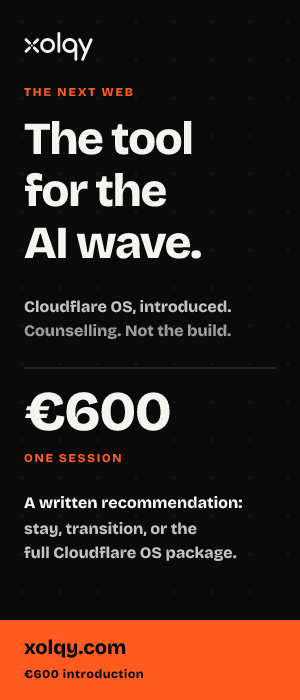
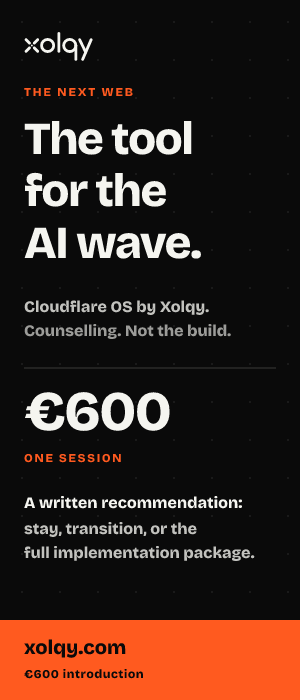
Rename the visible Cloudflare OS offer to the implementation.
Cloudflare OS stays Cloudflare’s product. Nav, shop, banner and article CTAs now say Cloudflare OS Implementation by Xolqy, with the short form only where space is tight. URLs are unchanged.

Changed region(s): [[0.18, 0.78, 0.84, 0.81], [0.45, 0.42, 0.78, 0.45]]

diff --git a/src/data/cloudflare-os.ts b/src/data/cloudflare-os.ts
@@ -1,7 +1,8 @@
 /**
- * Cloudflare OS: the umbrella offering. Facts here are restatements of the
- * process, services, stack and FAQs already published on the site. No prices,
- * customer names or measured results.
+ * Cloudflare OS Implementation by Xolqy. Cloudflare OS is Cloudflare's
+ * open-source product. Facts here are restatements of the process, services,
+ * stack and FAQs already published on the site. No prices, customer names
+ * or measured results.
  */
 import { PROCESS } from '@/data/content';
 
@@ -11,7 +12,7 @@ export const OS_PATH = '/cloudflare-os/';
 export const OS_TOPIC = 'Cloudflare OS';
 
 export const OS_DESCRIPTION =
-  'Cloudflare OS is how Xolqy runs a business on Cloudflare: compute, data, security, AI and delivery as one system, in an account you own, from audit through ongoing support.';
+  'Cloudflare OS Implementation by Xolqy deploys Cloudflare’s open-source AI workspace and designs compute, data, security, AI and delivery as one system, in an account you own. Xolqy is an independent implementation partner.';
 
 export interface OsProduct {
   name: string;
@@ -146,7 +147,7 @@ export const VERSUS = PROCESS.map((p) => {
 });
 
 export const NOT_THIS = [
-  'Not a Cloudflare product, plan or certification. Xolqy is independent and is not affiliated with, endorsed by or certified by Cloudflare, Inc.',
+  'Not a Cloudflare endorsement, plan or certification. Cloudflare OS is Cloudflare’s open-source product. Xolqy is an independent implementation partner and is not affiliated with, endorsed by or certified by Cloudflare, Inc.',
   'Not a requirement to turn every product on. A brochure site does not need Vectorize. An existing Postgres does not have to move to D1 on day one.',
   'Not a promise of a latency figure, a ranking, or a percentage off the hosting bill. Those are measured per project from your data, or not claimed.',
   'Not a lock-in designed by us. The repository and the Cloudflare account are yours. Leaving is a handover, not a migration of the account.',
@@ -155,7 +156,7 @@ export const NOT_THIS = [
 export const OS_FAQS = [
   {
     q: 'Is Cloudflare OS something Cloudflare sells?',
-    a: 'No. It is Xolqy’s name for running a business on Cloudflare as one system: compute, data, security, AI and delivery, designed together. Cloudflare sells the products. We design, build, migrate and look after how they fit your business. Xolqy is not affiliated with Cloudflare, Inc.',
+    a: 'Cloudflare OS is Cloudflare’s open-source AI workspace: a browser workspace, gadgets, and Gatekeepers that connect agents to company systems. You can deploy it into your own Cloudflare account. A fully managed dashboard version is a waitlist, not something this page can switch on for you. Cloudflare OS Implementation by Xolqy is our work on top of that: the pilot, and compute, data, security, AI and delivery designed together in an account you own. Cloudflare and Cloudflare OS are trademarks of Cloudflare, Inc. Xolqy is an independent implementation partner. Cloudflare does not endorse Xolqy.',
   },
   {
     q: 'Do we have to adopt the whole platform?',
@@ -171,7 +172,7 @@ export const OS_FAQS = [
   },
   {
     q: 'How is this different from hiring you for one service?',
-    a: 'Each service is a scoped outcome: a website, a migration, a performance pass, a security configuration, an assistant, or a monthly retainer. Cloudflare OS is the map those services sit on, so a migration does not ignore the firewall, and an assistant is not designed without a place for the data. You can still buy one service.',
+    a: 'Each service is a scoped outcome: a website, a migration, a performance pass, a security configuration, an assistant, or a monthly retainer. Cloudflare OS Implementation by Xolqy is the map those services sit on, so a migration does not ignore the firewall, and an assistant is not designed without a place for the data. You can still buy one service.',
   },
   {
     q: 'Our data must stay in a specific region. Can this do that?',

diff --git a/src/data/shop.ts b/src/data/shop.ts
@@ -74,9 +74,9 @@ export const SHOP: ShopItem[] = [
     amount: 250000,
     compareAt: 500000,
     currency: 'usd',
-    name: 'Cloudflare OS',
+    name: 'Cloudflare OS Implementation by Xolqy',
     category: 'packages',
-    tagline: 'Pre-Black Friday, half price. Cloudflare designed as the operating system for the business, in your account.',
+    tagline: 'Pre-Black Friday, half price. Cloudflare’s open-source workspace, and the Cloudflare platform around it, in your account.',
     includes: [
       'Audit: current architecture, DNS and TLS, a performance baseline, security gaps, a cost model and a prioritised plan',
       'Architecture naming each Cloudflare product and why, with the rollback plan',
@@ -86,25 +86,25 @@ export const SHOP: ShopItem[] = [
     delivery: 'The audit is typically one to two weeks. The build is scoped per project.',
     forWho: 'Businesses that want compute, data, security, AI and delivery designed as one system, in an account they own.',
     interest: 'not-sure',
-    proof: { label: 'Read Cloudflare OS', href: '/cloudflare-os/' },
+    proof: { label: 'Read the implementation', href: '/cloudflare-os/' },
   },
   {
     id: 'os-introduction',
     amount: 60000,
     currency: 'eur',
-    name: 'Cloudflare OS introduction',
+    name: 'Cloudflare OS Implementation by Xolqy — introduction',
     category: 'packages',
-    tagline: 'One counselling session on Cloudflare OS, and a written recommendation on whether to transition.',
+    tagline: 'One counselling session on the implementation, and a written recommendation on whether to proceed.',
     includes: [
-      'A working session on the mix you run today and what a move onto Cloudflare OS would change',
-      'The introduction: compute, data, security, AI and delivery as one system, in an account you own',
-      'A written recommendation you keep: stay as you are, a staged transition, or the full package',
-      'Counselling only. The build stays the separate Cloudflare OS package',
+      'A working session on the mix you run today and what a Cloudflare-first implementation would change',
+      'The introduction: Cloudflare OS, which is Cloudflare’s product, plus compute, data, security, AI and delivery in an account you own',
+      'A written recommendation you keep: stay as you are, a staged transition, or the full implementation package',
+      'Counselling only. The build stays the separate implementation package',
     ],
     delivery: 'One session, then the written note.',
     forWho: 'Owners and technical leads who want the map before they commission a build.',
     interest: 'not-sure',
-    proof: { label: 'Read Cloudflare OS', href: '/cloudflare-os/' },
+    proof: { label: 'Read the implementation', href: '/cloudflare-os/' },
   },
   {
     id: 'cloudflare-audit',

diff --git a/src/pages/search-index.json.ts b/src/pages/search-index.json.ts
@@ -11,7 +11,7 @@ export const prerender = true;
 type Item = { title: string; kind: string; href: string; text: string };
 
 const PAGES: Item[] = [
-  { title: 'Cloudflare OS', kind: 'Page', href: '/cloudflare-os/', text: 'Cloudflare as the operating system for a business. Compute, data, security, AI and delivery.' },
+  { title: 'Cloudflare OS Implementation by Xolqy', kind: 'Page', href: '/cloudflare-os/', text: 'Cloudflare OS is Cloudflare’s open-source AI workspace. Xolqy implements it, and designs compute, data, security, AI and delivery in an account you own.' },
   { title: 'Services', kind: 'Page', href: '/services/', text: 'Websites, migration, performance, security, AI and managed Cloudflare.' },
   { title: 'Work', kind: 'Page', href: '/work/', text: 'Case studies and client projects.' },
   { title: 'Our stack', kind: 'Page', href: '/stack/', text: 'How this website runs on Cloudflare.' },

diff --git a/src/data/site.ts b/src/data/site.ts
@@ -18,7 +18,7 @@ export const SITE = {
 
 export const NAV = [
   { label: 'Services', href: '/services/' },
-  { label: 'Cloudflare OS', href: '/cloudflare-os/' },
+  { label: 'Cloudflare OS by Xolqy', href: '/cloudflare-os/' },
   { label: 'Work', href: '/work/' },
   { label: 'Our Stack', href: '/stack/' },
   { label: 'Labs', href: '/labs/' },

diff --git a/src/content/insights/cloudflare-as-an-operating-system.md b/src/content/insights/cloudflare-as-an-operating-system.md
@@ -1,6 +1,6 @@
 ---
 title: "Cloudflare as an operating system: what that means for a business"
-description: Cloudflare OS is not a product Cloudflare sells. It is a way of running compute, data, security, AI and delivery as one system, and this is what that changes for a business that is tired of owning servers.
+description: Treating Cloudflare as one system — compute, data, security, AI and delivery — and how that differs from Cloudflare OS, which is Cloudflare’s own open-source workspace.
 publishedAt: 2026-10-09T16:00:00.000Z
 audience: business
 topics: ["Cloudflare OS", Workers, Architecture]
@@ -10,7 +10,7 @@ relatedServices: [websites-and-applications, managed-cloudflare]
 
 Most businesses do not have a cloud strategy. They have a website on a host, a database somewhere near it, a firewall that is really a plugin, and a renewal email that arrives once a year with a larger number on it. Cloudflare often enters that picture as a switch: turn the orange cloud on, hope the site gets faster, leave the server where it is.
 
-That switch is useful. It is also the smallest version of what the platform is. [Cloudflare OS](/cloudflare-os/) is our name for the larger one: treating Cloudflare as the layer the business runs on. Compute, data, security, AI and delivery, designed together, in an account you own.
+That switch is useful. It is also the smallest version of what the platform is. [Cloudflare OS Implementation by Xolqy](/cloudflare-os/) is the work of treating Cloudflare as the layer the business runs on: compute, data, security, AI and delivery, designed together, in an account you own. Cloudflare OS itself is Cloudflare’s open-source AI workspace, not a name we coined.
 
 ## What an operating system is doing here
 
@@ -18,7 +18,7 @@ An operating system is the layer other software assumes. It runs programs, store
 
 Cloudflare is unusual in the same way. [Workers](/wiki/workers/) run your code in every Cloudflare location. [D1](/wiki/d1/), [KV](/wiki/kv/) and [R2](/wiki/r2/) store records, configuration and files. The [WAF](/wiki/waf/), DDoS protection and [Access](/wiki/zero-trust-access/) sit in front. [Workers AI](/wiki/workers-ai/) and Vectorize run models next to the data. DNS, TLS and the cache deliver it. One account, one bill from Cloudflare, and the same behaviour in every location.
 
-The phrase is ours, not Cloudflare’s. Xolqy is an independent agency. Cloudflare OS is not a plan, a certification or a SKU. It is the scoping decision: design the system, then buy the piece you need, instead of collecting products that do not know about each other.
+The phrase “Cloudflare OS” is Cloudflare’s, for that open-source workspace. Xolqy is an independent implementation partner. The offering is not a certification, and it is not an endorsement. The scoping decision is unchanged: design the system, then buy the piece you need, instead of collecting products that do not know about each other.
 
 ## What actually changes
 
@@ -50,6 +50,6 @@ That is compute, data, security, AI and delivery in one deployment, configured i
 
 ## How the work is actually done
 
-The map is [Cloudflare OS](/cloudflare-os/). The delivery is the six services: a website or application, a migration, a performance pass, security and Zero Trust, AI and automation, or a named engineer each month. The sequence is always the same. Audit, Architect, Build & Migrate, Optimize & Support. Each stage leaves a document you keep even if the next stage never happens.
+The map is [Cloudflare OS Implementation by Xolqy](/cloudflare-os/). The delivery is the six services: a website or application, a migration, a performance pass, security and Zero Trust, AI and automation, or a named engineer each month. The sequence is always the same. Audit, Architect, Build & Migrate, Optimize & Support. Each stage leaves a document you keep even if the next stage never happens.
 
 The [labs](/labs/) let you watch an edge request, an enquiry moving through a queue and a workflow, and a finder that answers only from our own pages. If you want the outside view of a domain before any of that, the [health check](/health-check/) scores HTTPS, DNSSEC and email authentication in a few seconds. It is not an audit. The [audit article](/insights/what-a-cloudflare-audit-covers/) explains the difference.

diff --git a/src/content/insights/edge-cloud-landscape.md b/src/content/insights/edge-cloud-landscape.md
@@ -32,7 +32,7 @@ Three rules kept the writing honest.
 
 **Do not collapse different counts.** AWS’s infrastructure page says 39 regions and 124 Availability Zones, and also “750+” CloudFront points of presence. The regions documentation, on the same day, says an account is provided 34 regions. Azure’s infrastructure page says “80+” regions; Microsoft Learn says “over 70”. Cloudflare’s network page says 348 cities and, elsewhere on the same page, “330+”. Those are reported as published, not averaged.
 
-**No invented results.** There are no customer names, no before-and-after percentages, and no “typical saving”. The only Xolqy prices mentioned are ones already on the [shop](/shop/#cloudflare-os): the Cloudflare OS package at $2,500 (compare-at $5,000) and the [€600 introduction](/shop/#os-introduction).
+**No invented results.** There are no customer names, no before-and-after percentages, and no “typical saving”. The only Xolqy prices mentioned are ones already on the [shop](/shop/#cloudflare-os): the Cloudflare OS Implementation by Xolqy package at $2,500 (compare-at $5,000) and the [€600 introduction](/shop/#os-introduction).
 
 Where Cloudflare is the weaker fit, the spoke pages say so in their own section, not in a footnote.
 
@@ -202,7 +202,7 @@ AWS lock-in is real too. The difference is that a large part of an AWS estate ca
 
 ### Developer experience
 
-The platform is one account and a CLI, which is the experience [Cloudflare OS](/cloudflare-os/) is built around and which the [Workers](/wiki/workers/) and [Wrangler](/wiki/wrangler/) entries describe. Hyperdrive’s docs set `nodejs_compat` so that Node database drivers can run. That flag is not a promise of an unrestricted Node server: the memory and CPU limits still apply. [2](#r2) [10](#r10)
+The platform is one account and a CLI, which is the experience [Cloudflare OS Implementation by Xolqy](/cloudflare-os/) is built around and which the [Workers](/wiki/workers/) and [Wrangler](/wiki/wrangler/) entries describe. Hyperdrive’s docs set `nodejs_compat` so that Node database drivers can run. That flag is not a promise of an unrestricted Node server: the memory and CPU limits still apply. [2](#r2) [10](#r10)
 
 Vercel’s limits page is explicit that Functions run in a single region by default (`iad1`), with full Node.js coverage, and that Pro can add regions. If the team’s daily work is a framework deploy, that default is a feature. If the team’s daily work is a global cache, a WAF and a Worker in the same change, Cloudflare is the tighter loop and Vercel is the extra vendor. The [Vercel and Netlify spoke](/insights/research/cloudflare-vs-vercel-netlify/) holds that comparison.
 
@@ -256,7 +256,7 @@ No dollar price for Akamai delivery or EdgeWorkers. The pages we used do not pri
 
 No claim that Workers never charge for egress. Containers do.
 
-No new Xolqy price. The commercial step, if you want one, is [Cloudflare OS](/cloudflare-os/): the [package on the shop](/shop/#cloudflare-os) and the [introduction](/shop/#os-introduction).
+No new Xolqy price. The commercial step, if you want one, is [Cloudflare OS Implementation by Xolqy](/cloudflare-os/): the [package on the shop](/shop/#cloudflare-os) and the [introduction](/shop/#os-introduction). Xolqy implements Cloudflare’s platform. Cloudflare does not endorse Xolqy.
 
 ## The other pages
 

diff --git a/src/content/insights/cloudflare-vs-supabase-firebase.md b/src/content/insights/cloudflare-vs-supabase-firebase.md
@@ -25,7 +25,7 @@ This spoke belongs to [the edge cloud landscape](/insights/research/edge-cloud-l
 
 ## Where Cloudflare is stronger
 
-**The network those products do not sell.** A Supabase or Firebase project is an origin. DNS, TLS, cache, WAF and a global isolate are Cloudflare’s job, and they are the job described on [Cloudflare OS](/cloudflare-os/) and in the [cache](/wiki/cache/) and [WAF](/wiki/waf/) entries. Neither backend pricing page is a CDN price list.
+**The network those products do not sell.** A Supabase or Firebase project is an origin. DNS, TLS, cache, WAF and a global isolate are Cloudflare’s job, and they are the job described on [Cloudflare OS Implementation by Xolqy](/cloudflare-os/) and in the [cache](/wiki/cache/) and [WAF](/wiki/waf/) entries. Neither backend pricing page is a CDN price list.
 
 **Object egress, if the files are large and public.** R2 Standard is $0.015 per GB-month with no internet egress fee. Supabase includes storage in the project; this page does not cite a Supabase storage-egress rate, because the pricing page sections we relied on were the database and the edge functions, not a per-gigabyte delivery table. Firebase’s Spark plan includes 10 GiB a month of Firestore network egress and then Google Cloud pricing on Blaze. For media at volume, R2’s published zero is the number you can take to a spreadsheet. For Firestore’s document traffic, the free 10 GiB matters, and beyond it you are on Google’s network rates, which the [Google Cloud spoke](/insights/research/cloudflare-vs-google-cloud/) cites for Cloud Storage rather than re-deriving here. [1](#r1) [8](#r8)
 
@@ -53,7 +53,7 @@ A product whose core is mobile clients, document data and Google’s SDK: Fireba
 
 A brochure site, a member directory that fits in a few gigabytes, a form, an API in front of someone else’s Postgres: Cloudflare, and do not adopt Supabase to feel modern. The [queues and workflows](/insights/queues-versus-workflows/) piece is what background work looks like once you are on this side of the line.
 
-If you want that split designed rather than improvised, the path is [Cloudflare OS](/cloudflare-os/). The database can stay where it is. That is the point of Hyperdrive.
+If you want that split designed rather than improvised, the path is [Cloudflare OS Implementation by Xolqy](/cloudflare-os/). The database can stay where it is. That is the point of Hyperdrive.
 
 ## The rest of this series
 

diff --git a/src/content/insights/cloudflare-in-front-or-rebuild-on-workers.md b/src/content/insights/cloudflare-in-front-or-rebuild-on-workers.md
@@ -14,7 +14,7 @@ The first puts Cloudflare in front of the site you already have. DNS, TLS, cache
 
 The second moves the workload. Pages are prerendered to [Static Assets](/wiki/static-assets/), dynamic routes run on [Workers](/wiki/workers/), files go to R2, records go to D1 or stay behind [Hyperdrive](/wiki/hyperdrive/). The old server is switched off at the end. That is a project with an architecture stage.
 
-[Cloudflare OS](/cloudflare-os/) treats them as two layers of the same system. You can do the first without the second. You should not do the second without knowing why the first is not enough. Often the honest sequence is both, in that order.
+[Cloudflare OS Implementation by Xolqy](/cloudflare-os/) treats them as two layers of the same system. You can do the first without the second. You should not do the second without knowing why the first is not enough. Often the honest sequence is both, in that order.
 
 ## In front: what you get, and what you do not
 
@@ -46,6 +46,6 @@ The origin can also stay invisible. A tunnel means attackers who try to skip Clo
 
 The audit writes it down per site: front, move, or rebuild. The inventory is domains, DNS, mail, certificates, applications and the things that break quietly (hard-coded IPs, licence-bound software, cron jobs, URLs that bring the traffic). The architecture names the target, the redirect map, and the rollback, before anything moves.
 
-Both paths are [Cloudflare migration](/services/cloudflare-migration/). A rebuild that is really a new product is [websites and applications](/services/websites-and-applications/). [Cloudflare OS](/cloudflare-os/) is the reason they are specified together: the firewall, the cache and the account ownership are part of the fronting project, not an afterthought once the new site is pretty.
+Both paths are [Cloudflare migration](/services/cloudflare-migration/). A rebuild that is really a new product is [websites and applications](/services/websites-and-applications/). [Cloudflare OS Implementation by Xolqy](/cloudflare-os/) is the reason they are specified together: the firewall, the cache and the account ownership are part of the fronting project, not an afterthought once the new site is pretty.
 
 Rankings survive either path when every URL that matters is mapped and tested. Content and links do not change because the nameserver did. Broken URLs do. That test is part of the runbook, not a hope.

diff --git a/src/content/insights/where-cloudflare-keeps-your-data.md b/src/content/insights/where-cloudflare-keeps-your-data.md
@@ -8,7 +8,7 @@ readingMinutes: 6
 relatedServices: [websites-and-applications, cloudflare-migration]
 ---
 
-“Can the data stay in the EU?” is a yes-or-no question that the platform does not answer with a yes-or-no. Some stores take a location hint or a jurisdiction. The code that handles the request runs near the visitor, which is the point of the edge and also the thing a residency conversation has to include. [Cloudflare OS](/cloudflare-os/) treats that as an architecture constraint, written down in the audit, not as a slogan on the proposal.
+“Can the data stay in the EU?” is a yes-or-no question that the platform does not answer with a yes-or-no. Some stores take a location hint or a jurisdiction. The code that handles the request runs near the visitor, which is the point of the edge and also the thing a residency conversation has to include. [Cloudflare OS Implementation by Xolqy](/cloudflare-os/) treats that as an architecture constraint, written down in the audit, not as a slogan on the proposal.
 
 This article stays inside what we already publish. Where a control exists, it is named. Where the platform does not pin something, that is named too.
 
@@ -53,4 +53,4 @@ We ask which data has a location rule, who imposed it, and what “location” m
 
 The output is a sentence per store: this data lives here, this control applies, this limit remains. If the limit means the workload should not move, the audit says that. [Websites and applications](/services/websites-and-applications/) and [migrations](/services/cloudflare-migration/) inherit the sentence. They do not rediscover it during the build.
 
-[Cloudflare OS](/cloudflare-os/) includes this because a system that is silent about where bytes rest is not a system a regulated business can adopt. The platform can do a precise version of “stay in this region”. It cannot do a vague one. The work is deciding which version you actually need before the first binding is declared.
+[Cloudflare OS Implementation by Xolqy](/cloudflare-os/) includes this because a system that is silent about where bytes rest is not a system a regulated business can adopt. The platform can do a precise version of “stay in this region”. It cannot do a vague one. The work is deciding which version you actually need before the first binding is declared.

diff --git a/src/content/insights/queues-versus-workflows.md b/src/content/insights/queues-versus-workflows.md
@@ -10,7 +10,7 @@ relatedServices: [websites-and-applications, ai-and-automation]
 
 The request that sends the email, calls the model, and writes three systems before it responds is the request that times out on the afternoon you can least afford it. Workers have a CPU-time limit per request. That limit is generous for rendering a page and hostile to anything that must eventually finish even if a dependency is down.
 
-Two products exist for the work that should outlive the click. [Queues](/wiki/queues/) accept it. [Workflows](/wiki/workflows/) complete it. [Cloudflare OS](/cloudflare-os/) uses both, for different reasons, and so does the enquiry form on this website.
+Two products exist for the work that should outlive the click. [Queues](/wiki/queues/) accept it. [Workflows](/wiki/workflows/) complete it. [Cloudflare OS Implementation by Xolqy](/cloudflare-os/) uses both, for different reasons, and so does the enquiry form on this website.
 
 ## What a queue is for
 
@@ -54,4 +54,4 @@ You can watch that sequence on the [pipeline tracer](/labs/#enquiry-pipeline) wi
 
 The [AI and automation](/services/ai-and-automation/) service uses the same split. A document that must be classified, extracted, routed and sometimes approved is a workflow. The event that says “a document arrived” is a message. A chat turn the user is staring at is a request, bounded by a Durable Object, with retrieval from Vectorize. Putting the model call, the inbox write and the human approval in one request is how demos ship and how production pages time out.
 
-[Websites and applications](/services/websites-and-applications/) get the same question in the architecture stage, per endpoint. The output is a sentence in the document: this route responds, this queue accepts, this workflow finishes. [Cloudflare OS](/cloudflare-os/) is that sentence applied to the whole business, not only to the contact form.
+[Websites and applications](/services/websites-and-applications/) get the same question in the architecture stage, per endpoint. The output is a sentence in the document: this route responds, this queue accepts, this workflow finishes. [Cloudflare OS Implementation by Xolqy](/cloudflare-os/) is that sentence applied to the whole business, not only to the contact form.

diff --git a/src/content/insights/zero-trust-without-a-vpn.md b/src/content/insights/zero-trust-without-a-vpn.md
@@ -10,7 +10,7 @@ relatedServices: [security-and-zero-trust]
 
 A VPN made sense when the office was a network and the applications lived inside it. The applications moved. The VPN stayed, and it still means the same thing: a device joins a private network, and from there it can often see more than the one tool the person opened a laptop to use. When the VPN is down, the tool is down. When a contractor needs a single dashboard for a week, someone builds them a full tunnel and hopes they remember to revoke it.
 
-[Cloudflare OS](/cloudflare-os/) puts identity at the edge of each application instead. Two products do most of the work. [Access](/wiki/zero-trust-access/) decides who may open it. [Tunnel](/wiki/cloudflare-tunnel/) makes sure there is no public address to walk around the decision.
+[Cloudflare OS Implementation by Xolqy](/cloudflare-os/) puts identity at the edge of each application instead. Two products do most of the work. [Access](/wiki/zero-trust-access/) decides who may open it. [Tunnel](/wiki/cloudflare-tunnel/) makes sure there is no public address to walk around the decision.
 
 ## What Access actually checks
 
@@ -56,4 +56,4 @@ Gateway, the DNS and HTTP filtering for team devices, is a further step. It is i
 4. If the origin still has a public IP, put a tunnel in front of it and remove the address from DNS except as a proxied name.
 5. Write down who the policies allow. Review it when someone leaves.
 
-That list is a few hours for a single admin panel and a real design for a company with a dozen internal tools. Either way it is part of the security layer of [Cloudflare OS](/cloudflare-os/), not a separate religion. The public site, the data stores and the account ownership stay where they were. You have removed the VPN as the thing the business depends on to open its own tools.
+That list is a few hours for a single admin panel and a real design for a company with a dozen internal tools. Either way it is part of the security layer of [Cloudflare OS Implementation by Xolqy](/cloudflare-os/), not a separate religion. The public site, the data stores and the account ownership stay where they were. You have removed the VPN as the thing the business depends on to open its own tools.

diff --git a/src/content/insights/what-a-cloudflare-audit-covers.md b/src/content/insights/what-a-cloudflare-audit-covers.md
@@ -8,7 +8,7 @@ readingMinutes: 6
 relatedServices: [cloudflare-migration, security-and-zero-trust, performance-and-delivery, managed-cloudflare]
 ---
 
-“Audit” gets used for anything from a homepage scan to a long consulting project. On this site it means a fixed thing. We look at what you have before we touch it, and we hand you a written report: current architecture, DNS and TLS, a performance baseline, security gaps, a cost model from your usage, and a prioritised plan with risks. That is the first stage of [Cloudflare OS](/cloudflare-os/), and it is also a service you can buy on its own.
+“Audit” gets used for anything from a homepage scan to a long consulting project. On this site it means a fixed thing. We look at what you have before we touch it, and we hand you a written report: current architecture, DNS and TLS, a performance baseline, security gaps, a cost model from your usage, and a prioritised plan with risks. That is the first stage of [Cloudflare OS Implementation by Xolqy](/cloudflare-os/), and it is also a service you can buy on its own.
 
 ## What the report contains
 
@@ -54,4 +54,4 @@ You decide the move is not worth it yet. Some workloads do not belong on Workers
 
 [Managed Cloudflare](/services/managed-cloudflare/) starts with the same kind of review, then stays. The audit ends when the report is delivered. If you want a packaged version with a defined list of checks, it is in the [shop](/shop/). The contents of a custom audit are the list above, scoped to the estate you actually have, which is why a custom one is proposed rather than priced in an article.
 
-The umbrella, if you want to see where this stage sits next to the others, is [Cloudflare OS](/cloudflare-os/).
+The umbrella, if you want to see where this stage sits next to the others, is [Cloudflare OS Implementation by Xolqy](/cloudflare-os/).
